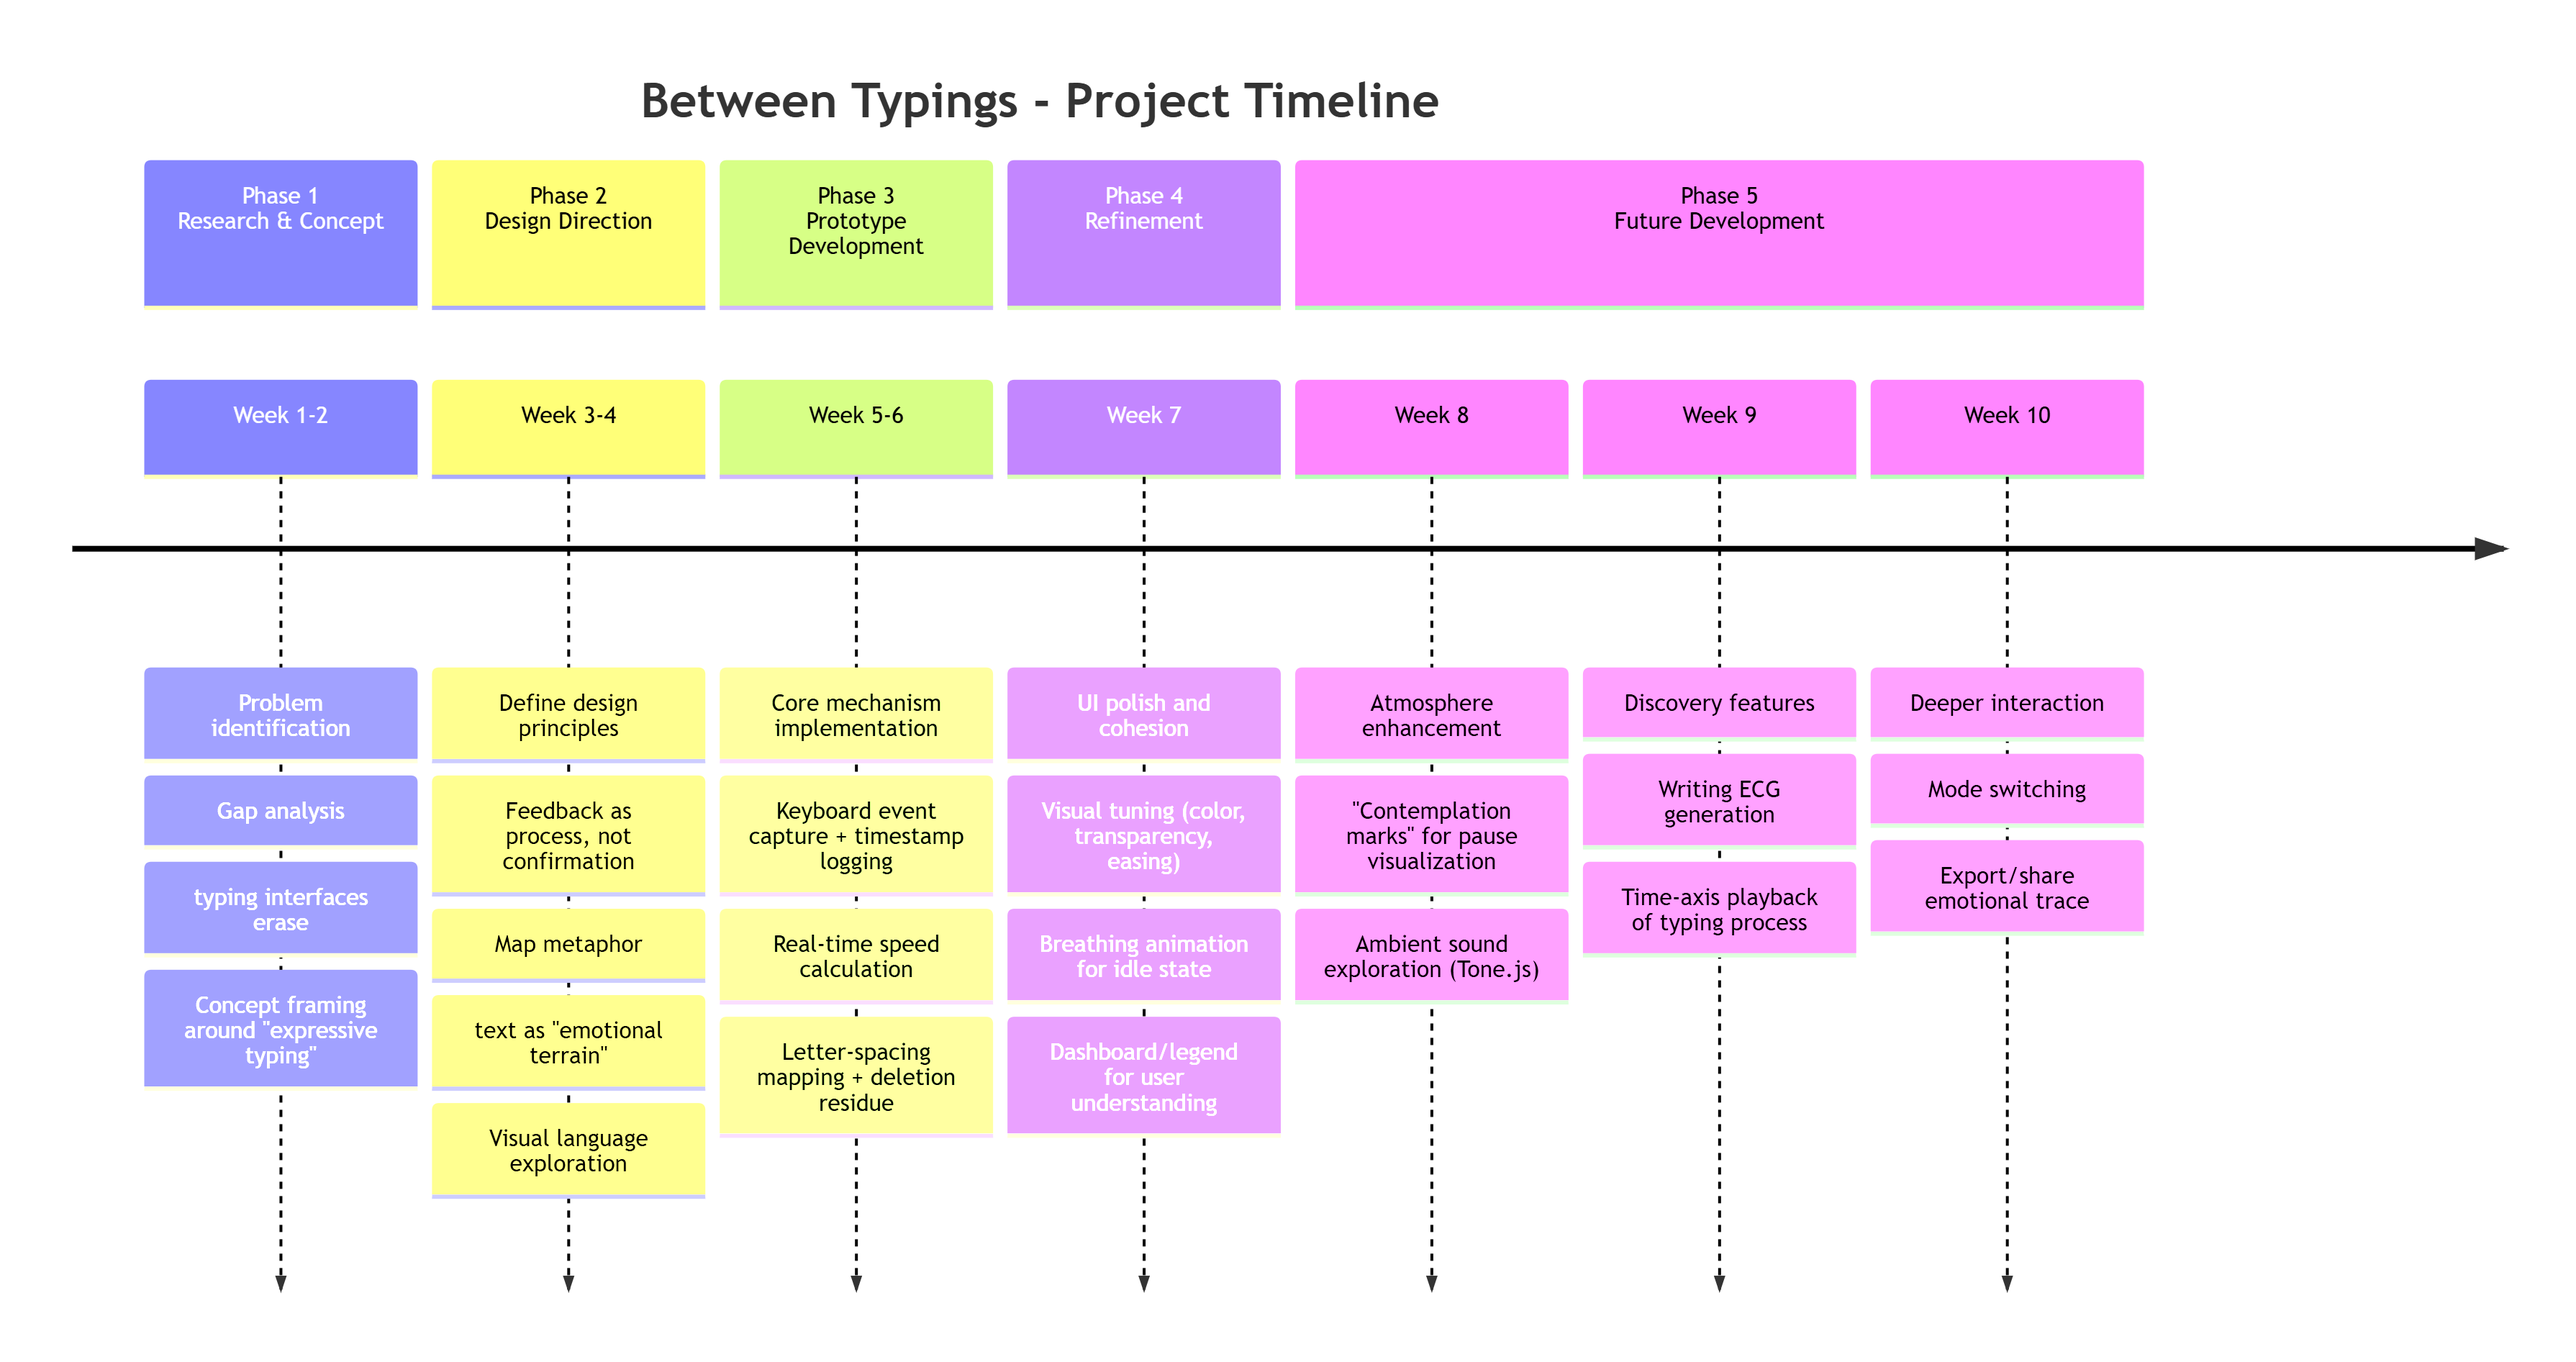
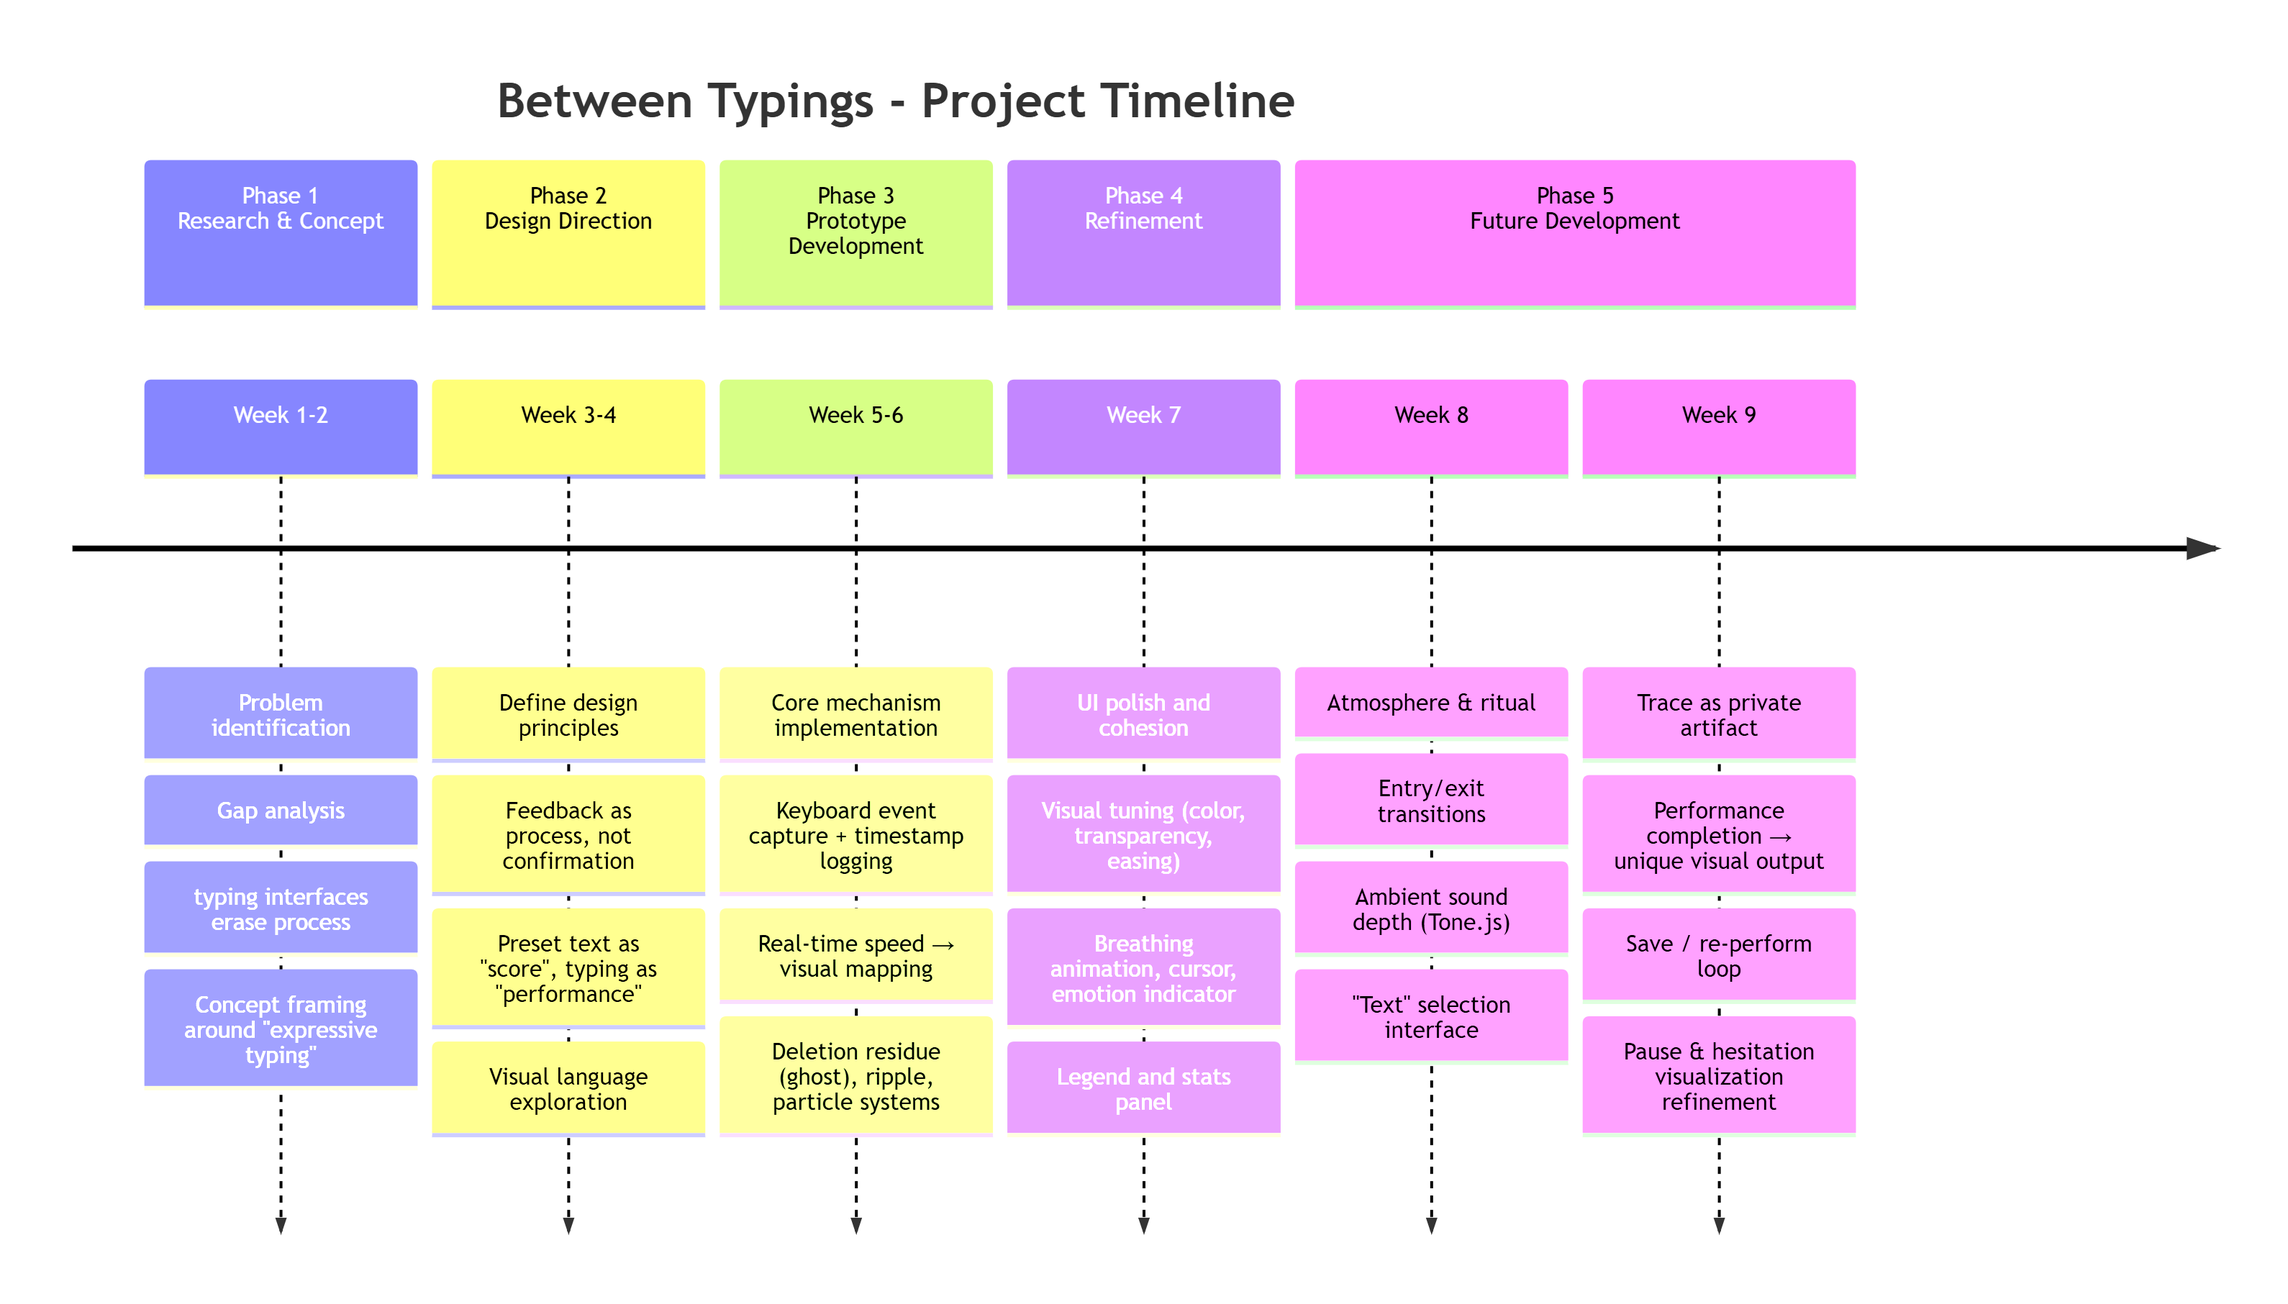
111

diff --git a/index.html b/index.html
@@ -251,6 +251,7 @@
                 <p>
                     <strong>Technical Choice</strong>: Audio synthesis is implemented using Tone.js PolySynth with triangle-wave oscillators for softer timbre. The system maps typing speed to pitch through a pentatonic scale ( ['C3', 'D3', 'E3', 'G3', 'A3', 'C4', 'D4', 'E4', 'G4', 'A4', 'C5'] )—faster typing triggers higher notes creating an "upward" psychological suggestion, while hesitation produces lower sustained tones. Note selection uses randomized variation within range ( idx + Math.floor(Math.random() * 3) ) to prevent mechanical repetition. 
                 </p>
+                  <h4>Core Architecture</h4>
 
                 <figure>
                     <img src="pica008.png" alt="888">
@@ -304,19 +305,26 @@
             <section>
                 <h2>Date project development timeline</h2>
 
-                <h4>Core Architecture</h4>
+              
                  <figure>
                     <img src="pica010.png" alt="100">
                     <figcaption>Prototype Development Schedule</figcaption>
                 </figure>
             </section>
                 
-                <h4> Key Decisions</h4>
-                <p>1. Did not simplify prototype: All features (replay, save, stats) serve the core concept of "making process visible"
-                    <br>2. Avoided functional expansion: Resisted adding "useful" features like export formats, cloud sync, collaboration
-                    <br>3. Chose atmosphere over utility: Future development focuses on visual/audio atmosphere rather than tool features
+                <h4> A comprehensive rethinking of the project</h4>
+                <p>Typing differs from clicking and swiping—clicking provides a sense of completion, swiping provides trace information, while typing always serves the "content," and the process itself is eliminated. This is the "original sin" of typing: apart from the text content, the rhythm of typing itself has no independent meaning.</p>
+                <br>
+                    <p>Three unavoidable facts:</p>
+                    <br>
+                    <p>1.Randomly typing is meaningless and only constitutes a keyboard test.</p>
+
+<br><p>2.Typing speed itself is not an expression unless the user cares about what they are typing.</p>
+
+<br><p>3.Visual feedback is merely icing on the cake; it cannot stand alone as a means of expression.
                 </p>
 
+                <p><h4> A hypothetical next version of Between Typings: </h4>Preset text acts as a "score," which users "play" with their keyboards. The text is fixed, but each type, hesitation, and deletion leaves a physical imprint. Users aren't simply completing an input task; they're traversing a poem, leaving a unique visual trace. Visual feedback isn't reward or punishment, but rather makes the invisible emotional states of the process visible.</p>
 
                 <h4> Completion Status</h4>
                 <p>
